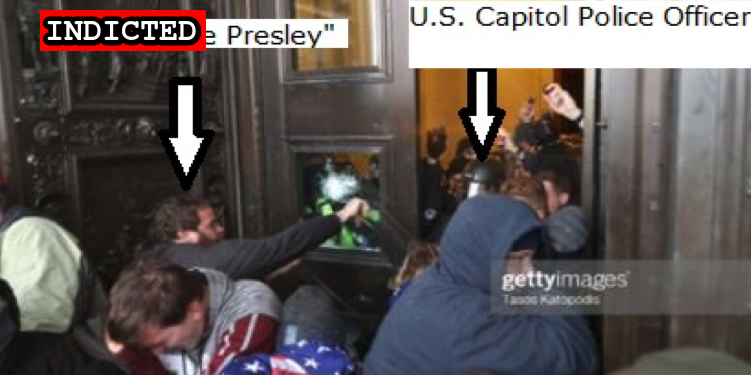
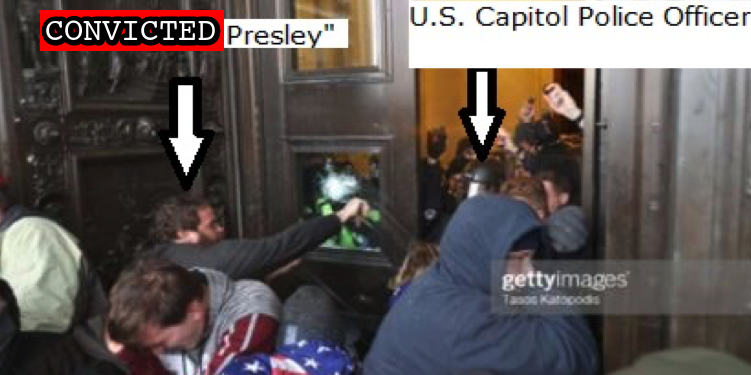
Presley plea

Changed region(s): [[0.0306, 0.0293, 0.3063, 0.1467]]

diff --git a/docs/_suspects/ronnie-presley.md b/docs/_suspects/ronnie-presley.md
@@ -4,15 +4,17 @@ lastName: Presley
 hashtag: RonniePresley
 aka:
 residence: Tennessee
-status: Indicted
+status: Convicted
 date: 2021-03-05
 charged: 2021-03-05
 indicted: 2021-03-26
-convicted: 
-sentenced: 
-dismissed: 
+convicted: 2022-07-28
+acquitted:
+sentenced:
+dismissed:
 deceased:
-plea_hearing:
+plea_hearing: 2022-07-28
+trial_date:
 sentencing:
 age: 42
 occupation:
@@ -25,7 +27,7 @@ courtroom:
 courthouse:
 raid:
 perpwalk:
-quote: 'I’m the guy who got you in this building. Don’t take my word for it. Watch the video.'
+quote: "I’m the guy who got you in this building. Don’t take my word for it. Watch the video."
 title: Ronnie Presley charged on March 5th, 2021
 description: Click for latest case details. Suspects innocent until proven guilty.
 author: seditiontrack
@@ -34,8 +36,14 @@ published: true
 caseNumber: 1:21-cr-257
 videos:
 charges:
+  - code: 40 USC § 5104(e)(2)(G)
+    title: Parading, demonstrating or picketing in a Capitol building
+    url: https://www.law.cornell.edu/uscode/text/40/5104
+    felony: false
 sentence:
 ---
+
 - [News Report](https://www.tennessean.com/story/news/crime/2021/03/08/tennessee-man-ronnie-b-presley-arrested-capitol-riot-investigation/4629102001/)
 - [Statement of Facts](https://www.justice.gov/usao-dc/case-multi-defendant/file/1375166/download)
 - [Indictment](https://www.justice.gov/usao-dc/case-multi-defendant/file/1380416/download)
+- [DOJ Press Release (Plea Agreement)](https://www.justice.gov/usao-dc/pr/tennessee-man-pleads-guilty-felony-charge-actions-jan-6-capitol-breach)

diff --git a/docs/_suspects/george-tenney.md b/docs/_suspects/george-tenney.md
@@ -36,16 +36,17 @@ published: true
 caseNumber:
 videos:
 charges:
-- code: 18 USC § 1512(c)(2)
-  title: Obstruction of an Official Proceeding
-  url: https://www.law.cornell.edu/uscode/text/18/1512
-  felony: true
-- code: 18 USC § 231(a)(3)
-  title: Civil Disorder
-  url: https://www.law.cornell.edu/uscode/text/18/231
-  felony: true
+  - code: 18 USC § 1512(c)(2)
+    title: Obstruction of an Official Proceeding
+    url: https://www.law.cornell.edu/uscode/text/18/1512
+    felony: true
+  - code: 18 USC § 231(a)(3)
+    title: Obstruction of Law Enforcement During Civil Disorder
+    url: https://www.law.cornell.edu/uscode/text/18/231
+    felony: true
 sentence:
 ---
+
 - [News Report](https://www.postandcourier.com/news/south-carolina-men-charged-in-riot-at-u-s-capitol/article_defc5150-d907-11eb-997d-9353862128d9.html)
 - [Statement of Facts](https://www.justice.gov/usao-dc/case-multi-defendant/file/1412476/download)
 - [Indictment](https://www.justice.gov/usao-dc/case-multi-defendant/file/1459296/download)

diff --git a/docs/_suspects/daryl-johnson.md b/docs/_suspects/daryl-johnson.md
@@ -36,16 +36,17 @@ published: true
 caseNumber: 1:21-cr-00407
 videos:
 charges:
-- code: 18 USC § 231(a)(3)
-  title: Civil Disorder
-  url: https://www.law.cornell.edu/uscode/text/18/231
-  felony: true
+  - code: 18 USC § 231(a)(3)
+    title: Obstruction of Law Enforcement During Civil Disorder
+    url: https://www.law.cornell.edu/uscode/text/18/231
+    felony: true
 sentence:
   - 30 days incarceration
   - $2000 fine
   - $2000 restitution
   - 1 year probation
 ---
+
 - [News Report](https://globegazette.com/community/mcpress/news/st-ansgar-man-and-his-son-arrested-for-alleged-involvement-in-january-u-s-capitol/article_b933ccd3-4b4f-5133-b737-78c3c0886510.html)
 - [Statement of Facts](https://www.justice.gov/usao-dc/case-multi-defendant/file/1403436/download)
 - [Information](https://extremism.gwu.edu/sites/g/files/zaxdzs2191/f/Daryl%20and%20Daniel%20Johnson%20Information.pdf)

diff --git a/docs/_suspects/daniel-johnson.md b/docs/_suspects/daniel-johnson.md
@@ -36,15 +36,16 @@ published: true
 caseNumber: 1:21-cr-00407
 videos:
 charges:
-- code: 18 USC § 231(a)(3)
-  title: Civil Disorder
-  url: https://www.law.cornell.edu/uscode/text/18/231
-  felony: true
+  - code: 18 USC § 231(a)(3)
+    title: Obstruction of Law Enforcement During Civil Disorder
+    url: https://www.law.cornell.edu/uscode/text/18/231
+    felony: true
 sentence:
   - 120 days incarceration
   - $2000 restitution
   - 1 year probation
 ---
+
 - [News Report](https://www.kaaltv.com/austin-minnesota-news/austin-man-arrested-in-connection-to-capitol-riots-in-january/6137943/)
 - [Statement of Facts](https://www.justice.gov/usao-dc/case-multi-defendant/file/1403436/download)
 - [Information](https://extremism.gwu.edu/sites/g/files/zaxdzs2191/f/Daryl%20and%20Daniel%20Johnson%20Information.pdf)

diff --git a/docs/_suspects/derrick-evans.md b/docs/_suspects/derrick-evans.md
@@ -36,15 +36,16 @@ published: true
 caseNumber: 1:21-cr-337
 videos:
 charges:
-- code: 18 USC § 231(a)(3)
-  title: Civil Disorder
-  url: https://www.law.cornell.edu/uscode/text/18/231
-  felony: true
+  - code: 18 USC § 231(a)(3)
+    title: Obstruction of Law Enforcement During Civil Disorder
+    url: https://www.law.cornell.edu/uscode/text/18/231
+    felony: true
 sentence:
   - 90 days incarceration
   - $2000 fine
   - $2000 restitution
 ---
+
 - [News Report](https://apnews.com/article/donald-trump-legislature-crime-west-virginia-electoral-college-b883a7667add0cb54f01ce7ffaa73536)
 - [DOJ Press Release](https://www.justice.gov/usao-dc/pr/three-men-charged-connection-events-us-capitol)
 - [Statement of Facts](https://www.justice.gov/usao-dc/press-release/file/1351946/download)

diff --git a/docs/_suspects/louis-colon.md b/docs/_suspects/louis-colon.md
@@ -36,12 +36,13 @@ published: true
 caseNumber: 1:21-cr-160
 videos:
 charges:
-- code: 18 USC § 231(a)(3),2
-  title: Civil Disorder (Aiding and Abetting)
-  url: https://www.law.cornell.edu/uscode/text/18/231
-  felony:
+  - code: 18 USC § 231(a)(3),2
+    title: Obstruction of Law Enforcement During Civil Disorder (Aiding and Abetting)
+    url: https://www.law.cornell.edu/uscode/text/18/231
+    felony:
 sentence:
 ---
+
 - [News Report](https://www.washingtonpost.com/local/legal-issues/kansas-city-proud-boys-charged-capitol-riots/2021/02/11/389d47b6-6c73-11eb-9ead-673168d5b874_story.html)
 - [Complaint](https://www.justice.gov/usao-dc/case-multi-defendant/file/1366446/download)
 - [Statement of Facts](https://www.justice.gov/usao-dc/case-multi-defendant/file/1366446/download)

diff --git a/docs/_suspects/robert-fairchild.md b/docs/_suspects/robert-fairchild.md
@@ -36,12 +36,13 @@ published: true
 caseNumber:
 videos:
 charges:
-- code: 18 USC § 231(a)(3)
-  title: Civil Disorder
-  url: https://www.law.cornell.edu/uscode/text/18/231
-  felony: true
+  - code: 18 USC § 231(a)(3)
+    title: Obstruction of Law Enforcement During Civil Disorder
+    url: https://www.law.cornell.edu/uscode/text/18/231
+    felony: true
 sentence:
 ---
+
 - [News Report](https://www.orlandosentinel.com/news/crime/os-ne-orlando-robert-fairchild--20210828-6yj67m4mlfapnefejh5yr3sjga-story.html)
 - [Statement of Facts](https://www.justice.gov/opa/case-multi-defendant/file/1428251/download)
 - [DOJ Press Release](https://www.justice.gov/usao-dc/pr/maryland-and-florida-men-arrested-assault-law-enforcement-during-jan-6-capitol-breach)

diff --git a/docs/_suspects/david-blair.md b/docs/_suspects/david-blair.md
@@ -36,12 +36,13 @@ published: true
 caseNumber: 1:21-cr-186
 videos:
 charges:
-- code: 18 USC § 231(a)(3)
-  title: Civil Disorder
-  url: https://www.law.cornell.edu/uscode/text/18/231
-  felony: true
+  - code: 18 USC § 231(a)(3)
+    title: Obstruction of Law Enforcement During Civil Disorder
+    url: https://www.law.cornell.edu/uscode/text/18/231
+    felony: true
 sentence:
 ---
+
 - [News Report](https://www.baltimoresun.com/news/crime/bs-md-ci-cr-blair-capitol-search-warrant-20210202-x4uzotfxhng5ddglhnl5npeonu-story.html)
 - [Complaint](https://extremism.gwu.edu/sites/g/files/zaxdzs2191/f/David%20Blair%20Criminal%20Complaint.pdf)
 - [Statement of Facts](https://www.justice.gov/usao-dc/case-multi-defendant/file/1371291/download)

diff --git a/docs/_suspects/moises-romero.md b/docs/_suspects/moises-romero.md
@@ -36,12 +36,13 @@ published: true
 caseNumber: 1:21-cr-677
 videos:
 charges:
-- code: 18 USC § 231(a)(3)
-  title: Civil Disorder
-  url: https://www.law.cornell.edu/uscode/text/18/231
-  felony: true
+  - code: 18 USC § 231(a)(3)
+    title: Obstruction of Law Enforcement During Civil Disorder
+    url: https://www.law.cornell.edu/uscode/text/18/231
+    felony: true
 sentence:
 ---
+
 - [News Report](https://wsvn.com/news/local/2-south-floridians-post-photos-videos-of-themselves-at-u-s-capitol-riot/)
 - [Complaint](https://extremism.gwu.edu/sites/g/files/zaxdzs2191/f/Moises%20Romero%20Criminal%20Complaint.pdf)
 - [Statement of Facts](https://www.justice.gov/usao-dc/case-multi-defendant/file/1440791/download)

diff --git a/docs/_suspects/thomas-hamner.md b/docs/_suspects/thomas-hamner.md
@@ -36,12 +36,13 @@ published: true
 caseNumber: 1:21-cr-689
 videos:
 charges:
-- code: 18 USC § 231(a)(3)
-  title: Civil Disorder
-  url: https://www.law.cornell.edu/uscode/text/18/231
-  felony: true
+  - code: 18 USC § 231(a)(3)
+    title: Obstruction of Law Enforcement During Civil Disorder
+    url: https://www.law.cornell.edu/uscode/text/18/231
+    felony: true
 sentence:
 ---
+
 - [News Report](https://www.thedenverchannel.com/news/local-news/colorado-man-charged-accused-of-fighting-with-police-at-jan-6-riot)
 - [Statement of Facts](https://www.justice.gov/usao-dc/case-multi-defendant/file/1448036/download)
 - [Indictment](https://www.justice.gov/usao-dc/case-multi-defendant/file/1506936/download)

diff --git a/docs/_suspects/lewis-cantwell.md b/docs/_suspects/lewis-cantwell.md
@@ -36,12 +36,13 @@ published: true
 caseNumber: 1:21-cr-89
 videos:
 charges:
-- code: 18 USC § 231(a)(3)
-  title: Civil Disorder
-  url: https://www.law.cornell.edu/uscode/text/18/231
-  felony: true
+  - code: 18 USC § 231(a)(3)
+    title: Obstruction of Law Enforcement During Civil Disorder
+    url: https://www.law.cornell.edu/uscode/text/18/231
+    felony: true
 sentence:
 ---
+
 - [News Report](https://www.smokymountainnews.com/news/item/30846-sylva-man-arrested-in-connection-with-capitol-riots)
 - [Complaint](https://extremism.gwu.edu/sites/g/files/zaxdzs2191/f/Lewis%20Easton%20Cantwell%20Indictment.pdf)
 - [Indictment](https://www.justice.gov/usao-dc/case-multi-defendant/file/1378511/download)

diff --git a/docs/_suspects/andrew-griswold.md b/docs/_suspects/andrew-griswold.md
@@ -36,12 +36,13 @@ published: true
 caseNumber: 1:21-cr-459
 videos:
 charges:
-- code: 18 USC § 231(a)(3)
-  title: Civil Disorder
-  url: https://www.law.cornell.edu/uscode/text/18/231
-  felony: true
+  - code: 18 USC § 231(a)(3)
+    title: Obstruction of Law Enforcement During Civil Disorder
+    url: https://www.law.cornell.edu/uscode/text/18/231
+    felony: true
 sentence:
 ---
+
 - [News Report](https://www.wkrg.com/news/niceville-man-arrested-in-connection-to-u-s-capitol-riot/)
 - [Statement of Facts](https://www.justice.gov/usao-dc/case-multi-defendant/file/1378646/download)
 - [Indictment](https://www.justice.gov/usao-dc/case-multi-defendant/file/1412506/download)
